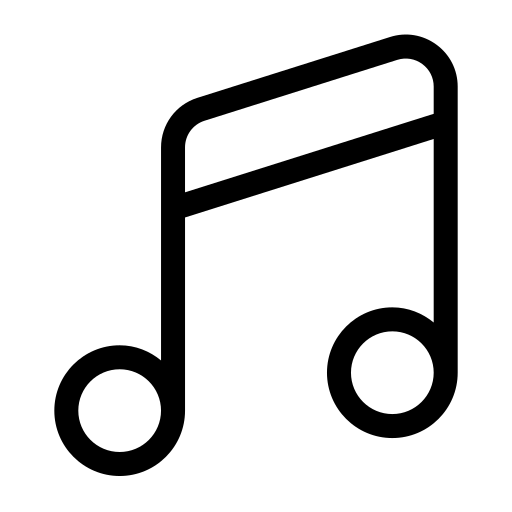
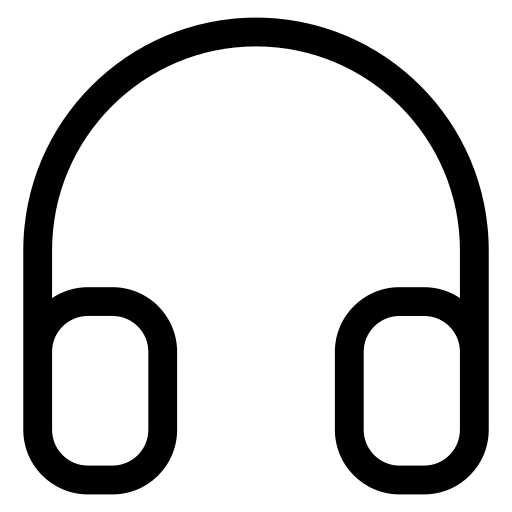
Adding new features

Changed region(s): [[0.0312, 0.0312, 0.9688, 0.9688]]

diff --git a/index.html b/index.html
@@ -39,7 +39,7 @@
     <div class="window-header" id="notesheader">
       <span class="window-title">catNote</span>
       <div class="window-controls">
-        <span id="notesclose" class="close-btn" title="Zavřít">✕</span>
+        <span id="notesclose" class="close-btn" title="Close">✕</span>
       </div>
     </div>
 
@@ -64,6 +64,36 @@
   </div>
 </div>
 
+  <!-- CATTEMP WINDOW -->
+<div class="window" id="cattemp">
+  <div class="window-header" id="cattempheader">
+    <span class="window-title">catTemp</span>
+    <div class="window-controls">
+      <span id="cattempclose" class="close-btn" title="Close">✕</span>        
+    </div>
+  </div>
+
+  <div class="cattemp-container">
+    <div>  <!-- catTemp content-->
+    </div>
+  </div>
+</div>
+
+  <!-- CATROULETTE WINDOW -->
+  <div class="window" id="catroulette">
+  <div class="window-header" id="catrouletteheader">
+    <span class="window-title">catRoulette</span>
+    <div class="window-controls">
+      <span id="catrouletteclose" class="close-btn" title="Close">✕</span>        
+    </div>
+  </div>
+
+  <div class="catroulette-container">
+    <div>  <!-- catRoulette content-->
+    </div>
+  </div>
+</div>
+
   <!-- FOOTER -->
   <div class="Footer" id="top">
     <p class="Textlogo">catOS</p>
@@ -75,13 +105,21 @@
     <div class="App" id="welcomeopen">
       <img src="images/cat.png" alt="catOS" class="app-icon-cat">
     </div>
-    
     <div class="App" id="notesopen">
       <img src="images/wirte.png" alt="catNote" class="app-icon">
     </div>
     <div class="App" id="catofyopen">
       <img src="images/music.png" alt="catOfy" class="app-icon">
-</div>
+    </div>
+    <div class="App" id="cattempopen">
+      <img src="images/paintbrush.png" alt="catTemp" class="app-icon">
+    </div>
+    <div class="App" id="catrouletteopen">
+      <img src="images/poker-chip.png" alt="catRoulette" class="app-icon">
+    </div>
+    <div class="App" id="catsettingsopen">
+      <img src="images/settings.png" alt="catSettings" class="app-icon">
+    </div>
   </div>
 
   <script src="script.js"></script>

diff --git a/script.js b/script.js
@@ -275,3 +275,23 @@ currentAudio.onended = function() {
 };
 
 renderCatofyTracks();
+
+var cattempScreen = document.querySelector("#cattemp");
+var cattempScreenClose = document.querySelector("#cattempclose");
+var cattempScreenOpen = document.querySelector("#cattempopen");
+
+if (cattempScreen) {
+    dragElement(cattempScreen);
+    if (cattempScreenClose) cattempScreenClose.addEventListener("click", () => closeWindow(cattempScreen));
+    if (cattempScreenOpen) cattempScreenOpen.addEventListener("click", () => openWindow(cattempScreen));
+}
+
+var catrouletteScreen = document.querySelector("#catroulette");
+var catrouletteScreenClose = document.querySelector("#catrouletteclose");
+var catrouletteScreenOpen = document.querySelector("#catrouletteopen");
+
+if (catrouletteScreen) {
+    dragElement(catrouletteScreen);
+    if (catrouletteScreenClose) catrouletteScreenClose.addEventListener("click", () => closeWindow(catrouletteScreen));
+    if (catrouletteScreenOpen) catrouletteScreenOpen.addEventListener("click", () => openWindow(catrouletteScreen));
+}

diff --git a/style.css b/style.css
@@ -353,14 +353,23 @@ a {
   font-size: 15px;
 }
 
-/* Zvětšení pouze ikony pauzy */
 .pause-icon {
-  font-size: 18px;       /* Přizpůsob podle potřeby */
+  font-size: 18px;       
   font-weight: bold;
   display: inline-block;
-  transform: translateY(-1px); /* Jemné vycentrování */
-}
+  transform: translateY(-1px); 
+  }
 
 .play-icon {
   font-size: 14px;
+}
+
+#cattemp {
+  position: absolute;
+  display: none;
+}
+
+#catroulette {
+  position: absolute;
+  display: none;
 }
